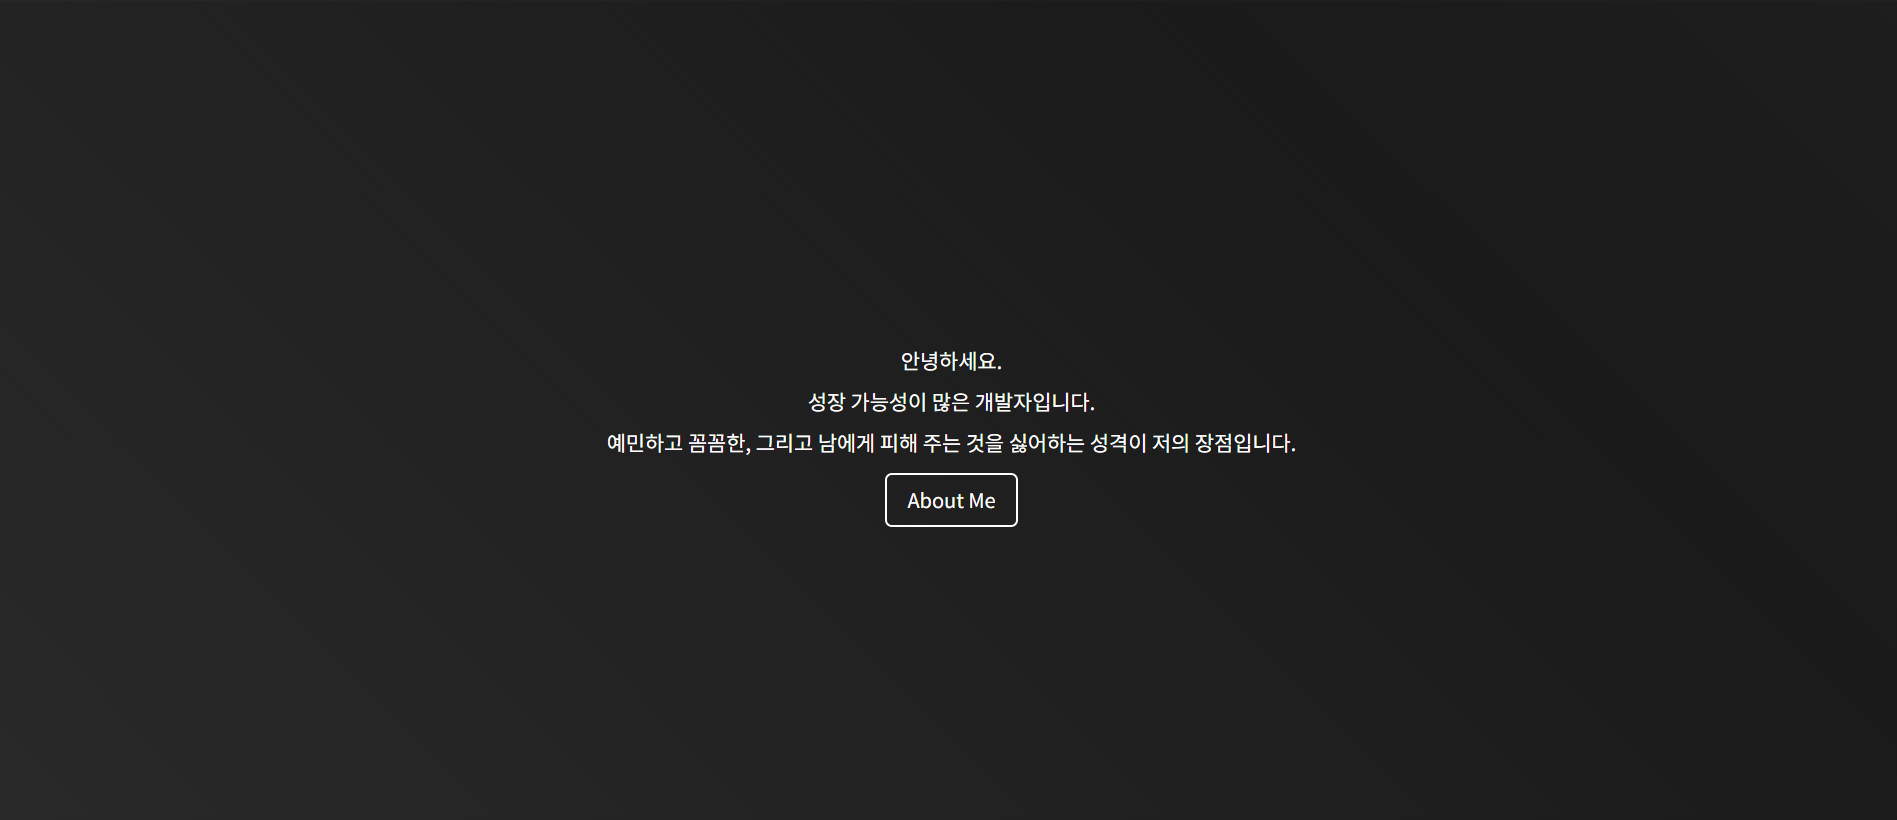
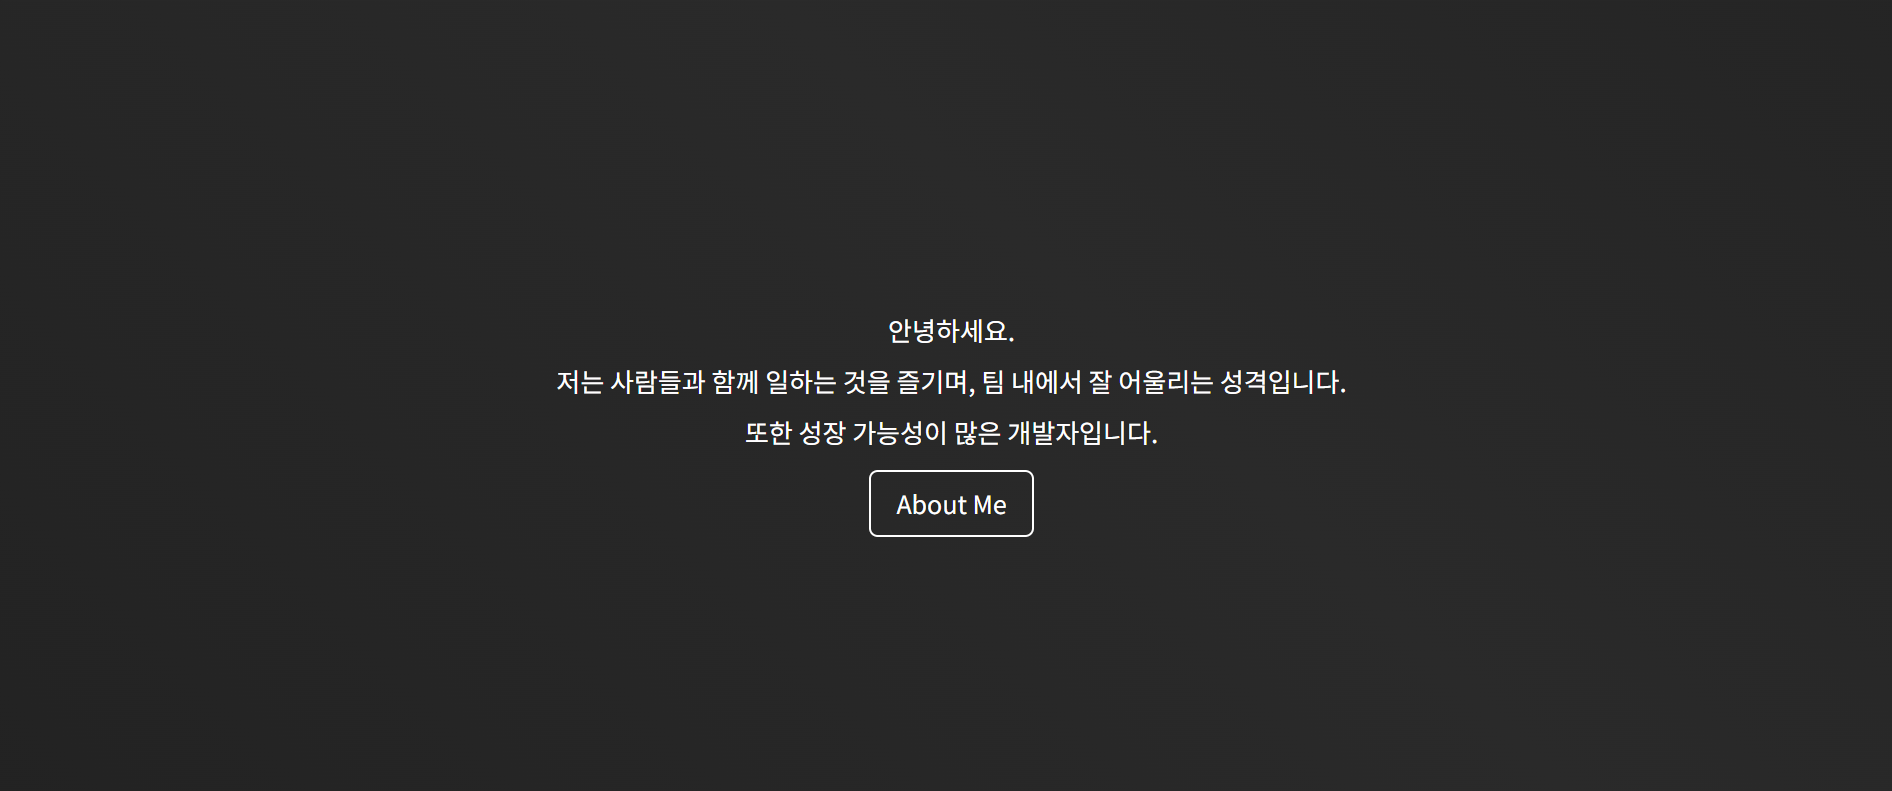
change main

Changed region(s): [[0.2807, 0.3944, 0.7172, 0.6675]]

diff --git a/components/Main/Home.tsx b/components/Main/Home.tsx
@@ -14,11 +14,11 @@ export default function Home({ handleClickAboutMe }: HomeProps) {
       <BackgroundAnimation />
       <Content>
         <Title>안녕하세요.</Title>
-        <Title>성장 가능성이 많은 개발자입니다.</Title>
         <Title>
-          예민하고 꼼꼼한, 그리고 남에게 피해 주는 것을 싫어하는 성격이 저의
-          장점입니다.
+          저는 사람들과 함께 일하는 것을 즐기며, 팀 내에서 잘 어울리는
+          성격입니다.
         </Title>
+        <Title>또한 성장 가능성이 많은 개발자입니다.</Title>
         <HomeButton text="About Me" onClick={handleClickAboutMe} />
       </Content>
     </Container>
